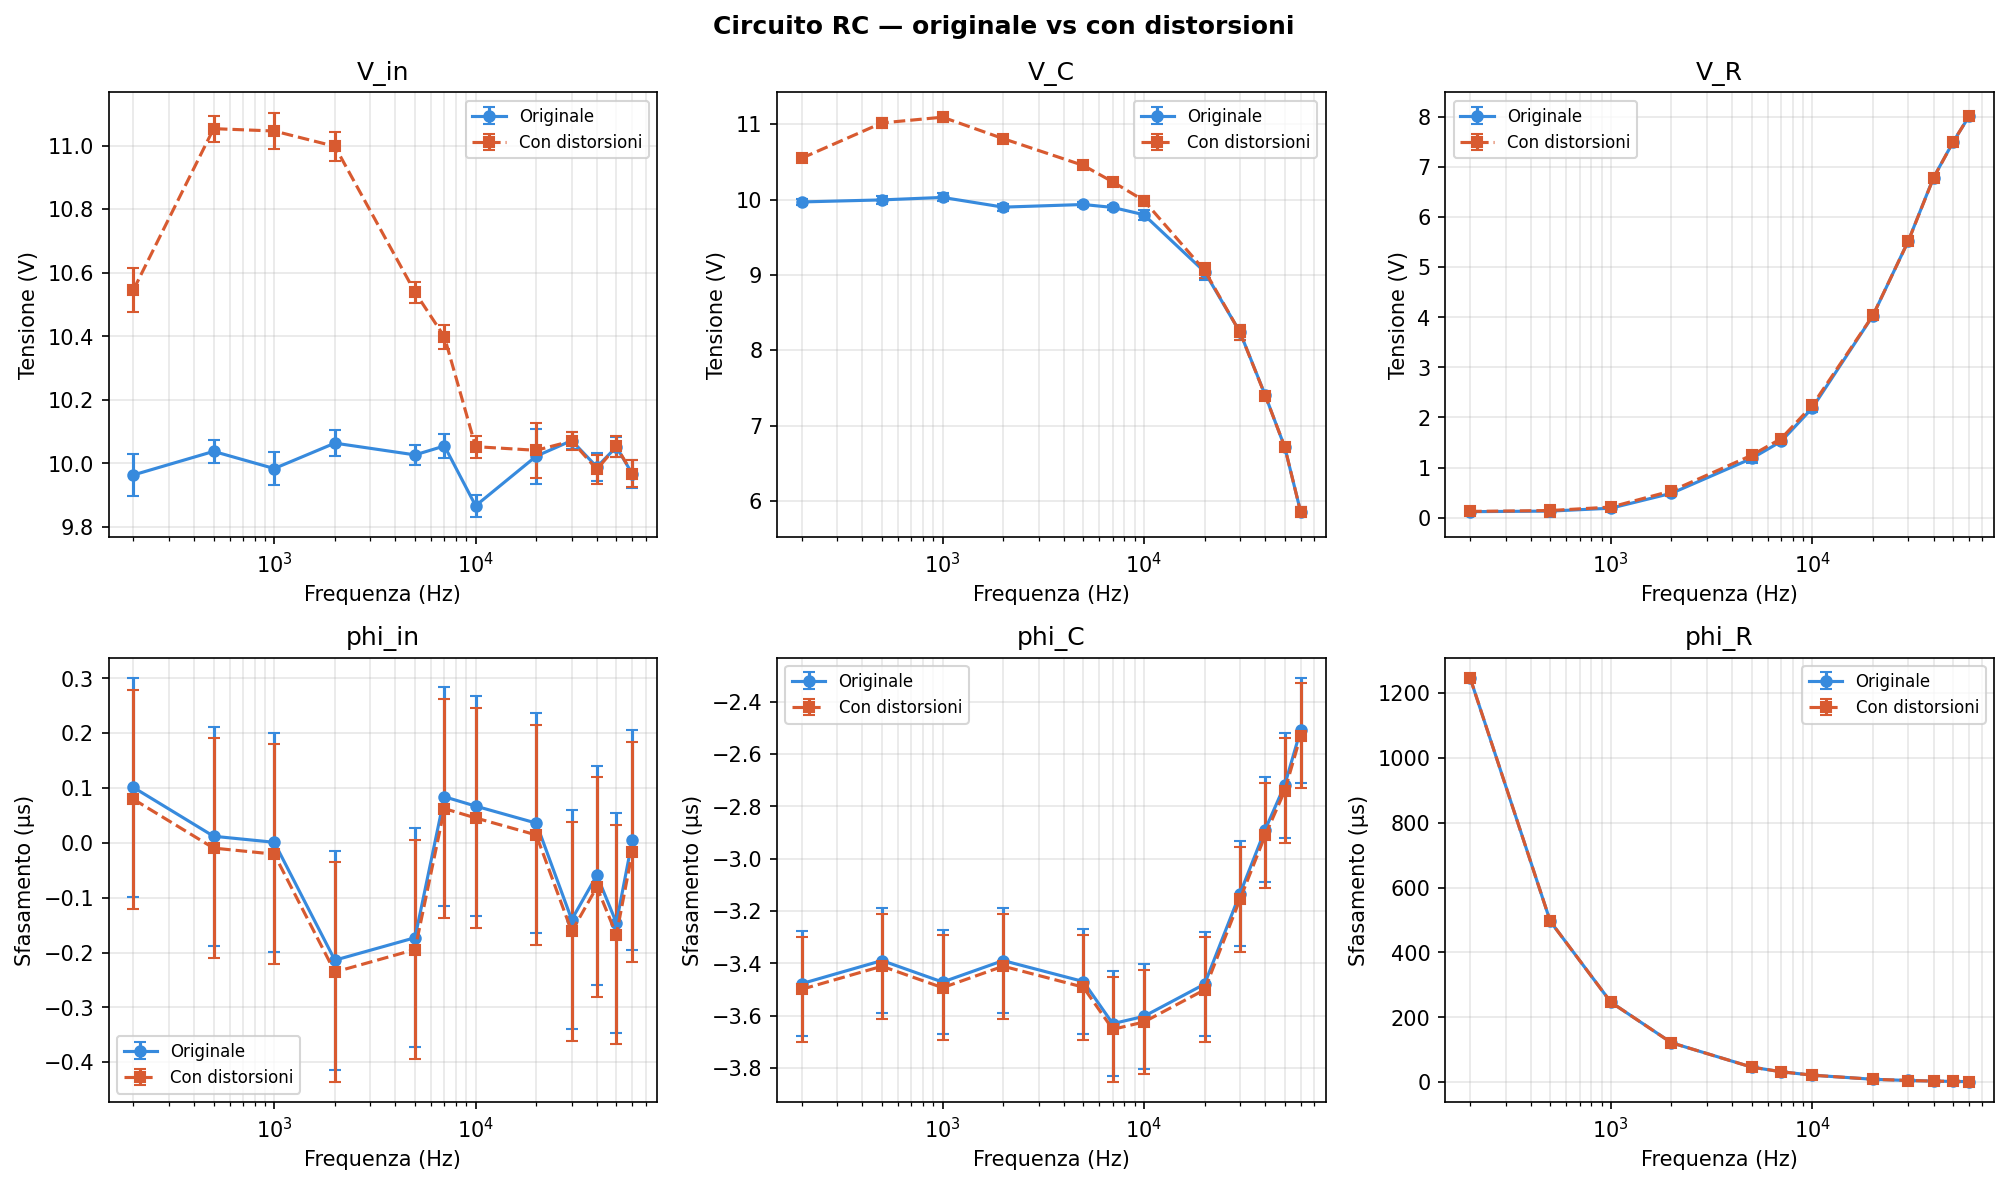
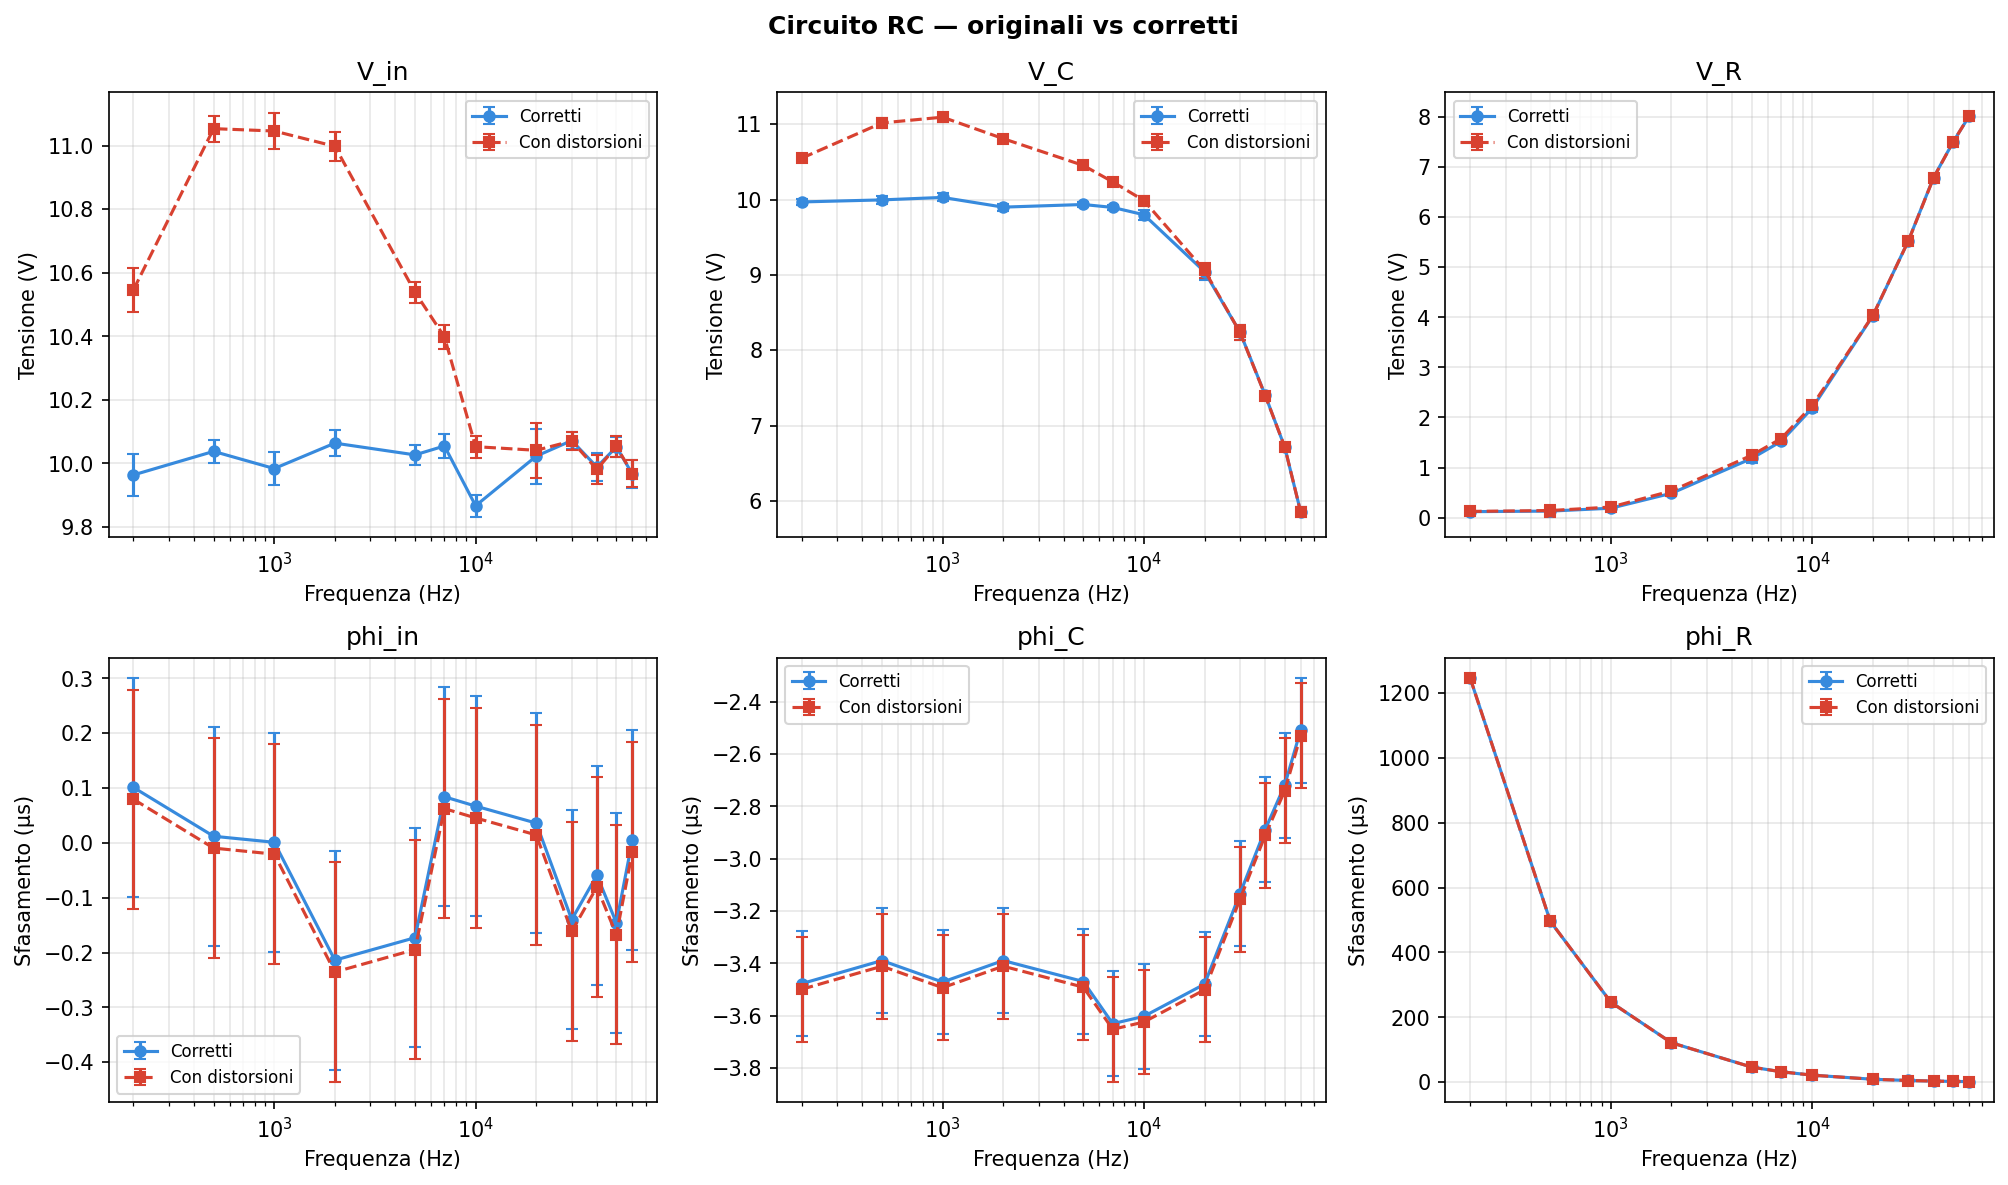
preghiamo

diff --git a/programmi_per_correzione/distorsioni.py b/programmi_per_correzione/distorsioni.py
@@ -289,16 +289,16 @@ def make_plot(name, data_orig, data_dist, amp_keys, phi_keys):
     n_phi = len(phi_keys)
     ncols = max(n_amp, n_phi)
     fig, axes = plt.subplots(2, ncols, figsize=(4.5*ncols, 8))
-    fig.suptitle(f"Circuito {name} — originale vs con distorsioni", fontweight="bold")
+    fig.suptitle(f"Circuito {name} — originali vs corretti", fontweight="bold")
 
     f = data_orig["frequenza"]
 
     for col, key in enumerate(amp_keys):
         ax = axes[0, col]
         ax.errorbar(f, data_orig[key], yerr=data_orig[f"sigma_{key}"],
-                    fmt="o-", color="#378ADD", lw=1.5, ms=5, capsize=3, label="Originale")
+                    fmt="o-", color="#378ADD", lw=1.5, ms=5, capsize=3, label="Corretti")
         ax.errorbar(f, data_dist[key], yerr=data_dist[f"sigma_{key}"],
-                    fmt="s--", color="#D85A30", lw=1.5, ms=5, capsize=3, label="Con distorsioni")
+                    fmt="s--", color="#D84130", lw=1.5, ms=5, capsize=3, label="Con distorsioni")
         ax.set_xscale("log")
         ax.set_xlabel("Frequenza (Hz)")
         ax.set_ylabel("Tensione (V)")
@@ -313,9 +313,9 @@ def make_plot(name, data_orig, data_dist, amp_keys, phi_keys):
     for col, key in enumerate(phi_keys):
         ax = axes[1, col]
         ax.errorbar(f, data_orig[key]*1e6, yerr=data_orig[f"sigma_{key}"]*1e6,
-                    fmt="o-", color="#378ADD", lw=1.5, ms=5, capsize=3, label="Originale")
+                    fmt="o-", color="#378ADD", lw=1.5, ms=5, capsize=3, label="Corretti")
         ax.errorbar(f, data_dist[key]*1e6, yerr=data_dist[f"sigma_{key}"]*1e6,
-                    fmt="s--", color="#D85A30", lw=1.5, ms=5, capsize=3, label="Con distorsioni")
+                    fmt="s--", color="#D84130", lw=1.5, ms=5, capsize=3, label="Con distorsioni")
         ax.set_xscale("log")
         ax.set_xlabel("Frequenza (Hz)")
         ax.set_ylabel("Sfasamento (μs)")
